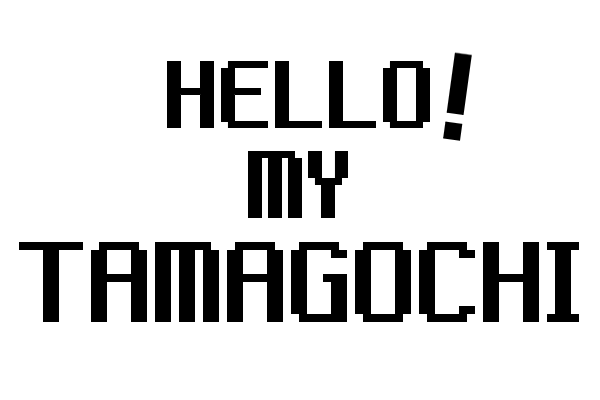
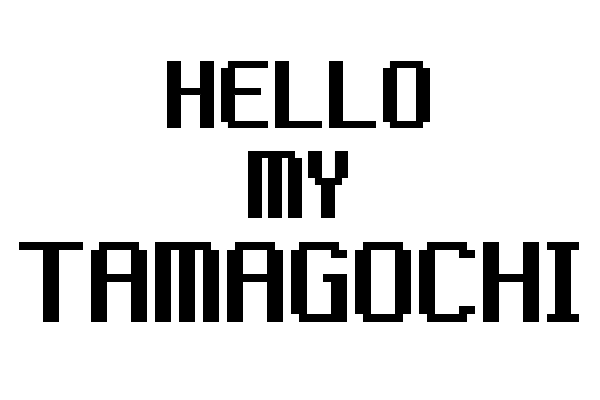
시작화면

Changed region(s): [[0.72, 0.12, 0.81, 0.36]]

diff --git a/tamaMain.py b/tamaMain.py
@@ -21,21 +21,27 @@ running = True
 shrinking = False  # 화면 사이즈 바뀌는거
 shrink_speed = 10  # 줄어드는 속도
 
+smallSize = 1.8
+
 #  게임 시작/종료 버튼 위치+ 크기
 button1image = image.load('시작버튼.png')
+button1image = pygame.transform.scale(button1image, (293/1.5, 91/1.5))
+button1Loc = button1image.get_rect(center=(screen_width // 2, 400))
+
 button2image = image.load('게임종료.png')
-button1Loc = button1image.get_rect(center=(screen_width // 2, screen_height // 2))
-button2Loc = button2image.get_rect(center=(screen_width // 2, screen_height // 2))
+button2image = pygame.transform.scale(button2image, (293/1.5, 91/1.5))
+button2Loc = button2image.get_rect(center=(screen_width // 2, 450))
 
-
-smallSize = 1.8
+titleImage = image.load('제목.png')
+titleImage = pygame.transform.scale(titleImage, (450,300))
+titleLoc = titleImage.get_rect(center=(screen_width // 2, 150))
 
 firstChoice1 = pygame.image.load('1.png')
 firstChoice1 = pygame.transform.scale(firstChoice1, (598/smallSize, 736/smallSize))
-firstChoice1Loc = firstChoice1.get_rect(center=(250,300))
+firstChoice1Loc = firstChoice1.get_rect(center=((screen_width // 2) - 290,300))
 firstChoice2 = pygame.image.load('2.png')
 firstChoice2 = pygame.transform.scale(firstChoice2, (598/smallSize, 736/smallSize))
-firstChoice2Loc = firstChoice2.get_rect(center=(750,300))
+firstChoice2Loc = firstChoice2.get_rect(center=((screen_width // 2) + 290,300))
 # 그 처음 선택할 때 위치들.+사진 로드
 
 while running:
@@ -71,6 +77,9 @@ while running:
     screen.fill(WHITE)
     screen.blit(firstChoice1, firstChoice1Loc)
     screen.blit(firstChoice2, firstChoice2Loc)
+    screen.blit(button1image, button1Loc)
+    screen.blit(button2image, button2Loc)
+    screen.blit(titleImage, titleLoc)
     pygame.display.flip()
     clock.tick(60)
 
